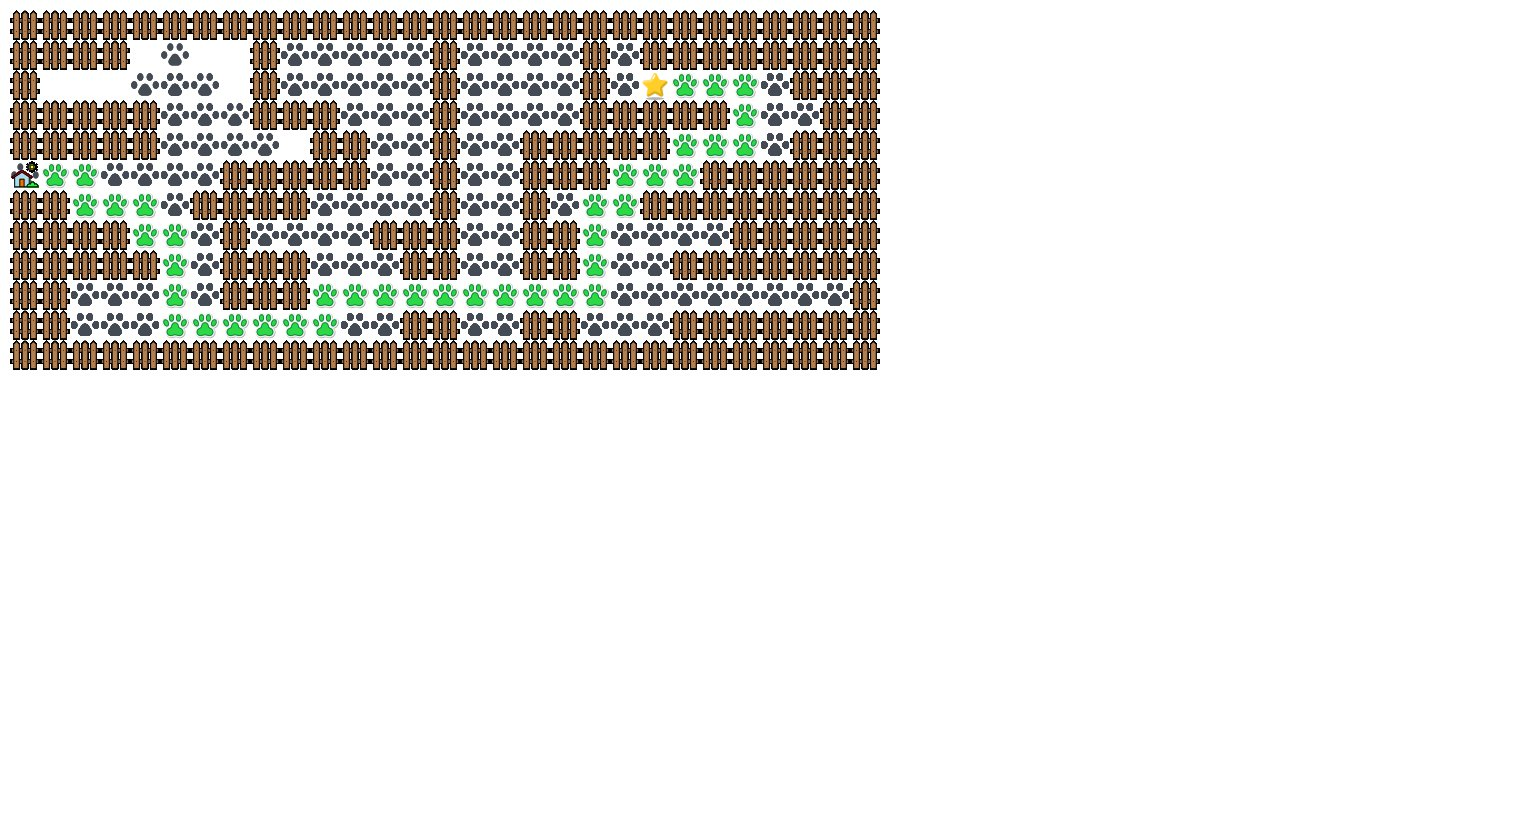
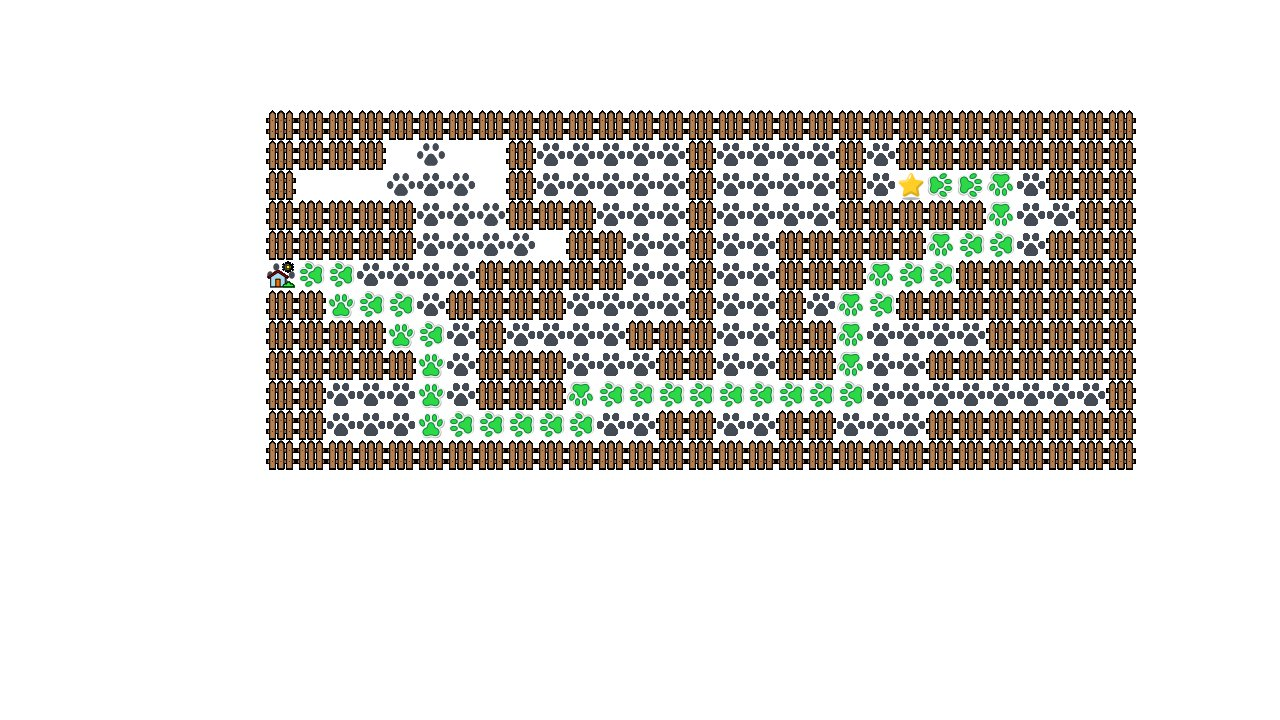
chan fix zizeo:

diff --git a/source/visualize2.py b/source/visualize2.py
@@ -1,4 +1,6 @@
 import pygame
+import sys,os
+from implement import read_file
 
 FPS = 60
 CELL_WIDTH = 30
@@ -32,10 +34,30 @@ maze_matrix = [
     ['x', 'x', 'x', 'x', 'x', 'x', 'x', 'x', 'x', ' '],
 ]
 
-WALL_IMG = pygame.image.load('./assets/tree.png')
-START_IMG = pygame.image.load('./assets/tree.png')
-EXIT_IMG = pygame.image.load('./assets/tree.png')
+# WALL_IMG = pygame.image.load('./assets/tree.png')
+# START_IMG = pygame.image.load('./assets/tree.png')
+# EXIT_IMG = pygame.image.load('./assets/tree.png')
+# GIFT_IMG = pygame.image.load('./assets/tree.png')
+
+WALL_IMG = pygame.image.load('./assets/fence.png')
+START_IMG = pygame.image.load('./assets/star.png')
+EXIT_IMG = pygame.image.load('./assets/house.png')
 GIFT_IMG = pygame.image.load('./assets/tree.png')
+TIM1_IMG = pygame.image.load('./assets/paw.png')
+TIM_U_IMG = pygame.image.load('./assets/cat.png')
+TIM_L_IMG = pygame.image.load('./assets/cat_l.png')
+TIM_R_IMG = pygame.image.load('./assets/cat_r.png')
+TIM_D_IMG = pygame.image.load('./assets/cat_d.png')
+
+RETIM_U_IMG = pygame.image.load('./assets/recat_u.png')
+RETIM_L_IMG = pygame.image.load('./assets/recat_l.png')
+RETIM_R_IMG = pygame.image.load('./assets/recat_r.png')
+RETIM_D_IMG = pygame.image.load('./assets/recat_d.png')
+
+CLOSE_IMG = pygame.image.load('./assets/close.png')
+OPEN_IMG = pygame.image.load('./assets/open.png')
+TELEPORT = pygame.image.load('./assets/tele.png')
+TELEPORT_OUT = pygame.image.load('./assets/teleout.png')
 
 
 def draw_maze(matrix, WIN):
@@ -68,7 +90,7 @@ def draw_cell(x, y, IMG, WIN):
     pygame.time.delay(delay)
 
 
-def main():
+def main(matrix):
     pygame.init()
 
     display_info = pygame.display.Info()
@@ -78,15 +100,15 @@ def main():
     WIN.fill(WHITE)
 
     # Tính toán kích thước mê cung dựa trên số hàng và số cột
-    maze_height = len(maze_matrix) * CELL_HEIGHT
-    maze_width = len(maze_matrix[0]) * CELL_WIDTH
+    maze_height = len(matrix) * CELL_HEIGHT
+    maze_width = len(matrix[0]) * CELL_WIDTH
 
     # Tính toán vị trí bắt đầu để vẽ mê cung giữa cửa sổ pygame
     global X_OFFSET, Y_OFFSET
     X_OFFSET = (screen_width - maze_width) // 2
     Y_OFFSET = (screen_height - maze_height) // 2
 
-    draw_maze(maze_matrix, WIN)
+    draw_maze(matrix, WIN)
     pygame.display.update()
     clock = pygame.time.Clock()
     run = True
@@ -100,4 +122,9 @@ def main():
     pygame.quit()
 
 if __name__ == "__main__":
-    main()
+    if 'advance' == sys.argv[1]:
+        path = "../input/advance/input{0}.txt".format(sys.argv[2])
+    else:    
+        path = "../input/level_{0}/input{1}.txt".format(sys.argv[1],sys.argv[2])
+    BONUS,matrix, is_teleport= read_file(path)
+    main(matrix)

diff --git a/source/visualize.py b/source/visualize.py
@@ -122,7 +122,7 @@ def draw_map():
     matrix_initialize(matrix,scale)
 
 
-def path_finding(dir,alg):
+def path_finding(dir,alg, algName):
     global matrix ,BONUS,explored,route,start,end,ALGNAME,screen,scale
     BONUS,matrix, is_teleport= read_file(dir)
     print("matrix size: ",len(matrix),len(matrix[0]))
@@ -192,7 +192,7 @@ def path_finding(dir,alg):
     # writer = imageio.get_writer(output_file, fps=FPS, macro_block_size=None)
     # for frame in frames:
     #     writer.append_data(frame)
-    output_file = "output_video.mp4"
+    output_file = "output_video/" + algName + ".mp4" 
     FPS = 30  # Frames per second (adjust as needed)
     writer = imageio.get_writer(output_file, fps=FPS, macro_block_size=None)
     algorithm_running = True
@@ -257,7 +257,11 @@ def path_finding(dir,alg):
                         if node in B_OUT:
                             draw_cell_no_delay(node[0], node[1], TELEPORT_OUT, screen)
                     route_footed.append(node)
-                        
+
+                    frame = pygame.surfarray.array3d(screen)
+                    frame = np.flip(frame, axis=1)
+                    frame = np.rot90(frame)
+                    writer.append_data(frame)    
                     pygame.time.wait(70)
                     pygame.display.update()
                     clock.tick(FPS)
@@ -296,6 +300,6 @@ if __name__ == "__main__":
         path = "../input/level_{0}/input{1}.txt".format(sys.argv[1],sys.argv[2])
     algName=sys.argv[3]
     print("exploredualizing {} on input {}".format(algName,path))
-    path_finding(path,alg[algName])
+    path_finding(path,alg[algName], algName)
    
    

diff --git a/source/main.py b/source/main.py
@@ -11,6 +11,7 @@ from GENETIC import *
 from A_Star_lv2 import *
 from DP import *
 from DIJKSTRA import *
+import time
 
 def main(argv):
     in_file, out_file = './input/', ''
@@ -39,7 +40,13 @@ def main(argv):
     if 'level_1' in in_file:
         out_put = './output/' + out_file + '/bfs/BFS.jpg'
         name = 'BFS'
+        start_time = time.time()
         route,explored,cost = BFS(matrix,start,end,bonus_points)
+        end_time = time.time()
+        #tính thời gian chạy của thuật toán Python
+        elapsed_time = end_time - start_time
+        print ("BFS time:{0}".format(elapsed_time) + "[sec]")
+
         write_cost_path(cost, './output/' + out_file + '/bfs/BFS.txt')
         visualize_maze(matrix,bonus_points,start,end,out_put,name,route,explored,False)
 
